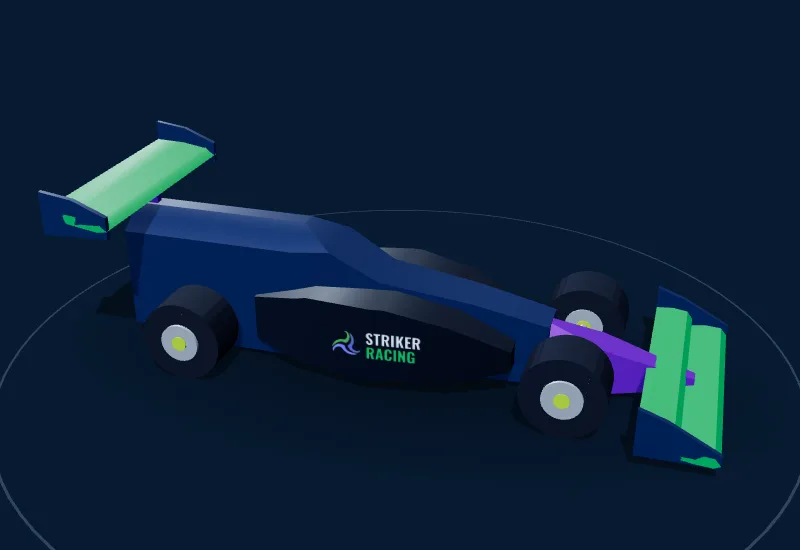
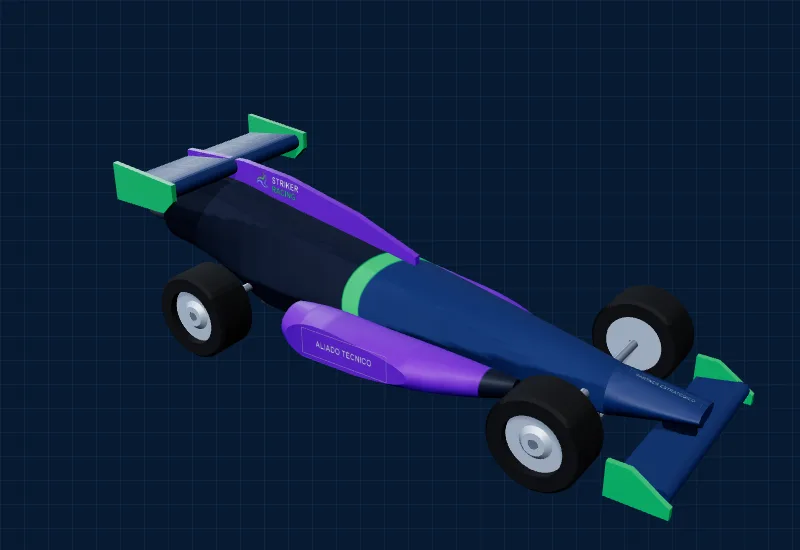
feat(patrocinios): mapa del auto con espacios y niveles; póster, og y caché del nuevo SR-26
- /patrocinios/ y /en/sponsorship/: vistas superior y lateral con marcadores A/B/C y el nivel de cada espacio.
- car-poster.webp y og-preview.png regenerados con el modelo nuevo (scripts/capture-sr26.mjs).
- vercel.json: caché para /assets/*.glb|webp; se quitan reglas de /despiece/ y el póster duplicado.

Claude-Session: https://claude.ai/code/session_019ZfBaGv2dhEh3vBUfnugRA

diff --git a/patrocinios/index.html b/patrocinios/index.html
@@ -246,6 +246,20 @@
       </div>
     </div>
 
+    <figure class="sponsor-map">
+      <figcaption><h3>Dónde va tu marca en el auto</h3><p>Prototipo visual del SR-26: los recuadros con contorno son los espacios disponibles.</p></figcaption>
+      <div class="sm-views">
+        <div class="sm-view"><span class="sm-cap micro">Vista superior</span><div class="sm-img"><img src="/assets/img/sponsor-map-top-es.webp" width="1000" height="400" alt="Vista superior del SR-26 con los espacios de patrocinio señalados" loading="lazy"><span class="sm-pin" style="left:87.81%;top:50%" aria-hidden="true">A</span><span class="sm-pin" style="left:16.42%;top:50%" aria-hidden="true">C</span></div></div>
+        <div class="sm-view"><span class="sm-cap micro">Vista lateral</span><div class="sm-img"><img src="/assets/img/sponsor-map-side-es.webp" width="1000" height="400" alt="Vista lateral del SR-26 con los espacios de patrocinio señalados" loading="lazy"><span class="sm-pin" style="left:49.84%;top:65.94%" aria-hidden="true">B</span></div></div>
+      </div>
+      <ul class="sm-legend">
+        <li><span class="sm-pin" aria-hidden="true">A</span><span>Nariz</span><b>Partner Estratégico</b></li>
+        <li><span class="sm-pin" aria-hidden="true">B</span><span>Pontones, ambos lados</span><b>Aliado Técnico</b></li>
+        <li><span class="sm-pin" aria-hidden="true">C</span><span>Alerón trasero, 4 espacios chicos</span><b>Aliado Técnico</b></li>
+      </ul>
+      <p class="sm-note">Colaborador e Impulsor llevan su logotipo en el uniforme. La espina lleva el logo del equipo.</p>
+    </figure>
+
     <p class="tiers-note">Aceptamos patrocinios monetarios y en especie. <b>Confirma antes del 23 de noviembre</b> para que tu marca entre en la temporada 2026–2027.</p>
 
     <h2 class="faq-title">Preguntas frecuentes</h2>

diff --git a/css/gallery.css b/css/gallery.css
@@ -531,3 +531,21 @@ footer .brand-mark{height:26px;}
   .paddock-pass{cursor:pointer;}
   .team-feature .team-stats{gap:28px 20px;}
 }
+
+/* ---------- Mapa de patrocinios sobre el auto ---------- */
+.sponsor-map{margin:56px 0 0; padding:28px 24px; background:var(--surface); border:1px solid var(--border-fine);}
+.sponsor-map h3{text-transform:uppercase; font-weight:600; margin:0 0 6px;}
+.sponsor-map figcaption p{margin:0 0 20px; color:var(--ice-dim);}
+.sm-views{display:grid; grid-template-columns:repeat(2,minmax(0,1fr)); gap:16px;}
+@media (max-width:760px){ .sm-views{grid-template-columns:1fr;} }
+.sm-cap{display:block; margin-bottom:6px;}
+.sm-img{position:relative; border:1px solid var(--border-fine); background-color:var(--navy-deep);
+  background-image:linear-gradient(var(--grid-line) 1px, transparent 1px), linear-gradient(90deg, var(--grid-line) 1px, transparent 1px); background-size:24px 24px;}
+.sm-img img{display:block; width:100%; height:auto;}
+.sm-pin{display:inline-grid; place-items:center; width:24px; height:24px; flex:none; background:var(--lime); color:var(--navy-deep); font-family:var(--mono); font-size:0.75rem; font-weight:700;}
+.sm-img .sm-pin{position:absolute; transform:translate(-50%,-150%); width:20px; height:20px; font-size:0.68rem; box-shadow:0 0 0 2px var(--navy-deep);}
+.sm-legend{list-style:none; margin:20px 0 0; padding:0; display:grid; grid-template-columns:repeat(3,minmax(0,1fr)); gap:12px;}
+@media (max-width:760px){ .sm-legend{grid-template-columns:1fr;} }
+.sm-legend li{display:grid; grid-template-columns:auto 1fr; column-gap:10px; row-gap:2px; align-items:center; border:1px solid var(--border-fine); padding:12px;}
+.sm-legend li b{grid-column:2; color:var(--emerald); font-weight:600;}
+.sm-note{margin:16px 0 0; color:var(--ice-dim); font-size:0.9rem;}

diff --git a/en/sponsorship/index.html b/en/sponsorship/index.html
@@ -246,6 +246,20 @@
       </div>
     </div>
 
+    <figure class="sponsor-map">
+      <figcaption><h3>Where your brand goes on the car</h3><p>Visual prototype of the SR-26: the outlined boxes are the available spaces.</p></figcaption>
+      <div class="sm-views">
+        <div class="sm-view"><span class="sm-cap micro">Top view</span><div class="sm-img"><img src="/assets/img/sponsor-map-top-en.webp" width="1000" height="400" alt="Top view of the SR-26 with the sponsorship spaces marked" loading="lazy"><span class="sm-pin" style="left:87.81%;top:50%" aria-hidden="true">A</span><span class="sm-pin" style="left:16.42%;top:50%" aria-hidden="true">C</span></div></div>
+        <div class="sm-view"><span class="sm-cap micro">Side view</span><div class="sm-img"><img src="/assets/img/sponsor-map-side-en.webp" width="1000" height="400" alt="Side view of the SR-26 with the sponsorship spaces marked" loading="lazy"><span class="sm-pin" style="left:49.84%;top:65.94%" aria-hidden="true">B</span></div></div>
+      </div>
+      <ul class="sm-legend">
+        <li><span class="sm-pin" aria-hidden="true">A</span><span>Nose</span><b>Strategic Partner</b></li>
+        <li><span class="sm-pin" aria-hidden="true">B</span><span>Sidepods, both sides</span><b>Technical Ally</b></li>
+        <li><span class="sm-pin" aria-hidden="true">C</span><span>Rear wing, 4 small spaces</span><b>Technical Ally</b></li>
+      </ul>
+      <p class="sm-note">Collaborator and Booster place their logo on the uniform. The spine carries the team logo.</p>
+    </figure>
+
     <p class="tiers-note">We accept both cash and in-kind sponsorships. <b>Confirm before November 23</b> so your brand joins the 2026–2027 season.</p>
 
     <h2 class="faq-title">Frequently asked questions</h2>
